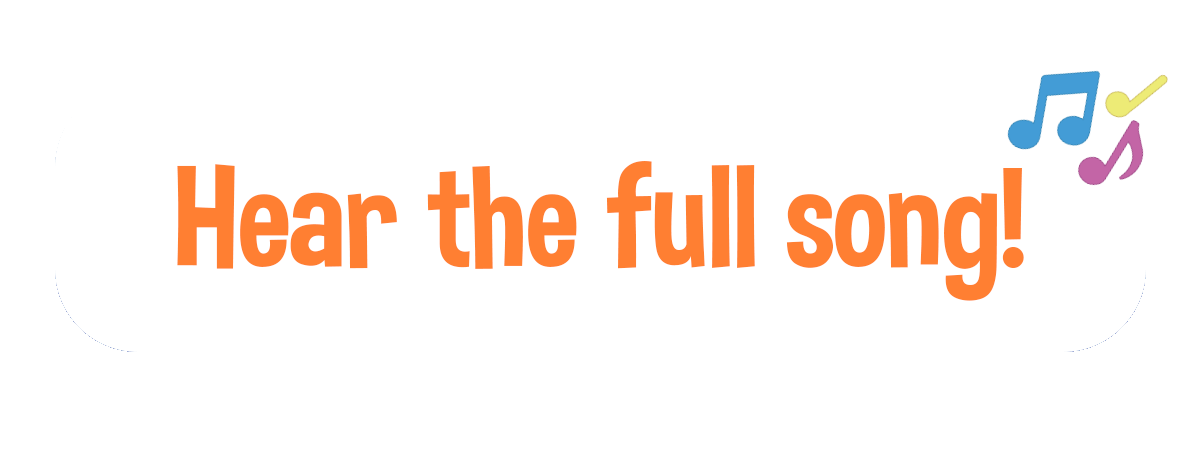
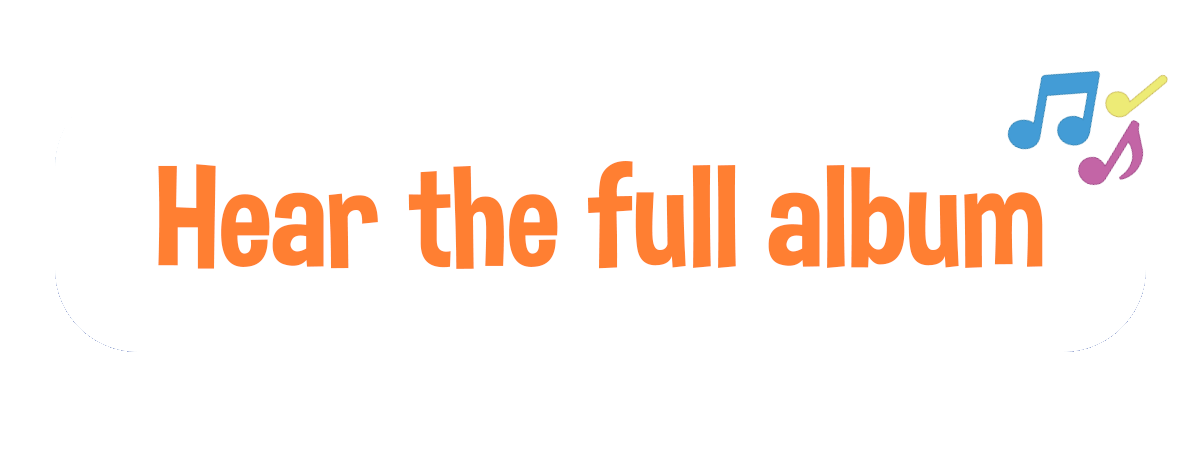
New buttons

Changed region(s): [[0.1233, 0.3422, 0.8942, 0.6844]]

diff --git a/src/Components/Player.jsx b/src/Components/Player.jsx
@@ -37,7 +37,7 @@ export default function Player(props) {
   }
 
   const handleLinkfire = () => {
-    window.location.href = "https://blippi.lnk.to/WeExploreJG";
+    window.location.href = "https://Moonbug.lnk.to/FqzpsmJG";
   }
 
   const handleExplore = () => {
